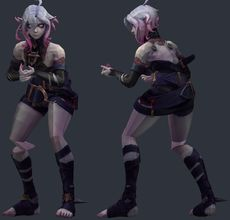
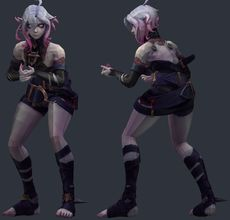
[create] playermodels: Riot _SNAP helper bones follow their base bone (Briar's knees folded); POSE_VIEWS for side-view pose sheets

Changed region(s): [[0.0304, 0.6273, 0.1522, 0.7091], [0.7304, 0.6273, 0.8217, 0.7091]]

diff --git a/create/playermodels/poses.py b/create/playermodels/poses.py
@@ -4,6 +4,8 @@ overhead (shoulders, armpits) and a body twist with the head turned (neck). Buil
     from poses import pose_sheet
     pose_sheet(t, V, UV, groups, weights, 'out.png', label)     # t: gmod2cs2.Template (or its own-joints copy)
 
+Views: env POSE_VIEWS (default front,three; e.g. side,three to see knees and elbows bend).
+
 Each pose is {joint: [(world axis, degrees), ...]}: the joint and everything below it turn about that axis through the joint's
 bind-pose position (model faces +X, left is +Y, up is +Z). 'drop' lowers the whole body (crouch). Rotations compose down the chain.
 """
@@ -75,7 +77,7 @@ def pose_sheet(t, V, UV, groups, weights, out, label, H=520):
     for name, S in todo:
         Q = skin(V, weights, S)
         p = out[:-4] + '_%s.png' % name.replace(' ', '')
-        render(Q, UV, groups, p, views=('front', 'three'), H=H, label='%s  %s' % (label, name), box=BOX)
+        render(Q, UV, groups, p, views=tuple(os.environ.get('POSE_VIEWS', 'front,three').split(',')), H=H, label='%s  %s' % (label, name), box=BOX)
         tiles.append(Image.open(p).convert('RGB')); os.remove(p)
     w = max(im.width for im in tiles); cols = 3
     sheet = Image.new('RGB', (w * cols, H * ((len(tiles) + cols - 1) // cols)), (46, 50, 58))

diff --git a/create/playermodels/fbx_export.py b/create/playermodels/fbx_export.py
@@ -105,6 +105,11 @@ def main():
         if 'ValveBiped.Bip01_' + need not in used: print('  MISSING main bone', need)
     index = {b.name: i for i, b in enumerate(bones)}
     parents = [index[b.parent.name] if b.parent else -1 for b in bones]
+    lower = {b.name.lower(): i for i, b in enumerate(bones)}
+    for i, b in enumerate(bones):      # Riot '<bone>_SNAP' helpers (skinned, parented to the root) follow their base bone in game
+        m = re.match(r'(?i)(.+)_snap$', b.name)
+        if m and m.group(1).lower() in lower:
+            parents[i] = lower[m.group(1).lower()]; print('  %-28s follows %s' % (b.name, m.group(1)))
     world = []
     for b in bones:
         M = arm.matrix_world @ b.matrix_local

diff --git a/create/playermodels/BATCH11.md b/create/playermodels/BATCH11.md
@@ -12,7 +12,7 @@ head hit box moved (z, u); **fingers** = finger fit L/R (u, < 1.8 fine).
 |---|---|---|---|---|---|---|---|---|---|---|---|
 | <a href="img/poses/itt_cody.jpg"><img src="img/itt_cody.jpg" height="90" alt="itt_cody"></a> | `itt_cody` | [It Takes Two - Playable Characters - Cody](https://models.spriters-resource.com/pc_computer/ittakestwo/) by Hazelight Studios (rip: The Models Resource) | `itt_cody.npz` | 93119 | 1.058 | 16.7 | -1.56 | -4.9 z | 2.7/2.7 | OK | hand_R inside the torso in the CS2 preview pose (chest surface 9.1 u in front of the wrist); hand_L fingers sit 2.7 u from their CS2 finger bones: CS2 finger curls will distort them; hand_R fingers sit 2.7 u from their CS2 finger bones: CS2 finger curls will distort them |
 | <a href="img/poses/itt_may.jpg"><img src="img/itt_may.jpg" height="90" alt="itt_may"></a> | `itt_may` | [It Takes Two - Playable Characters - May](https://models.spriters-resource.com/pc_computer/ittakestwo/) by Hazelight Studios (rip: The Models Resource) | `itt_may.npz` | 116524 | 1.359 | 5.6 | -2.28 | +4.9 z | 1.6/1.6 | OK | bulky torso: chest 5.5 u further forward than a stock agent; CS2 hand poses (two-handed weapons) will clip into it; skeleton does not match CS2 (limb joints more than 5 u off: leg_upper_L 5.6, leg_upper_R 5.6): CS2 will bend the limbs away from the joints of the model |
-|  | `itt_briar` | [League of Legends - Briar](https://leagueoflegends.fandom.com/wiki/Briar) by Riot Games (rip, user-supplied GLB) | `itt_briar.npz` | 13446 | 1.338 | 10.1 | -3.03 | +1.0 z | 0.7/0.7 | OK | ok |
+| <a href="img/poses/itt_briar.jpg"><img src="img/itt_briar.jpg" height="90" alt="itt_briar"></a> | `itt_briar` | [League of Legends - Briar](https://leagueoflegends.fandom.com/wiki/Briar) by Riot Games (rip, user-supplied GLB) | `itt_briar.npz` | 13446 | 1.338 | 10.1 | -3.03 | +1.0 z | 0.7/0.7 | OK | ok |
 
 <!-- review notes: kept by batchnotes.py -->
 ## Review

diff --git a/docs/creation/gmod-playermodels.md b/docs/creation/gmod-playermodels.md
@@ -132,6 +132,9 @@ GLBs work too (Briar, a League of Legends rip with a Riot skeleton: L_Hip/L_Knee
 the exporter maps those names (a skeleton with its own clavicle makes 'Shoulder' the upper arm), leaves out meshes with no skin weights
 (a stray Icosphere), saves the textures embedded in the material nodes (unlit glTF materials included; glTF normal maps flipped to Y-)
 and `"drop_materials"` removes props (her pillory, lying at her feet in the bind pose).
+Riot rigs skin parts of the body to `<bone>_SNAP` helpers parented to the root (Briar's kneecaps: `L_Hip_SNAP`); in game they follow
+their base bone, so the exporter reparents each `_SNAP` onto it. Left on the root they mapped to the pelvis and her knees folded into a
+forward spike when bent. To see knees and elbows bend, render the pose sheet from the side: `POSE_VIEWS=side,three`.
 Related: trenchwarfare's `tools/soldiers.py` makes CS2 players from Mixamo-rigged GLBs by stretching each bone to CS2's length (fine for
 generated soldiers; not used here, where models keep their proportions).
 
